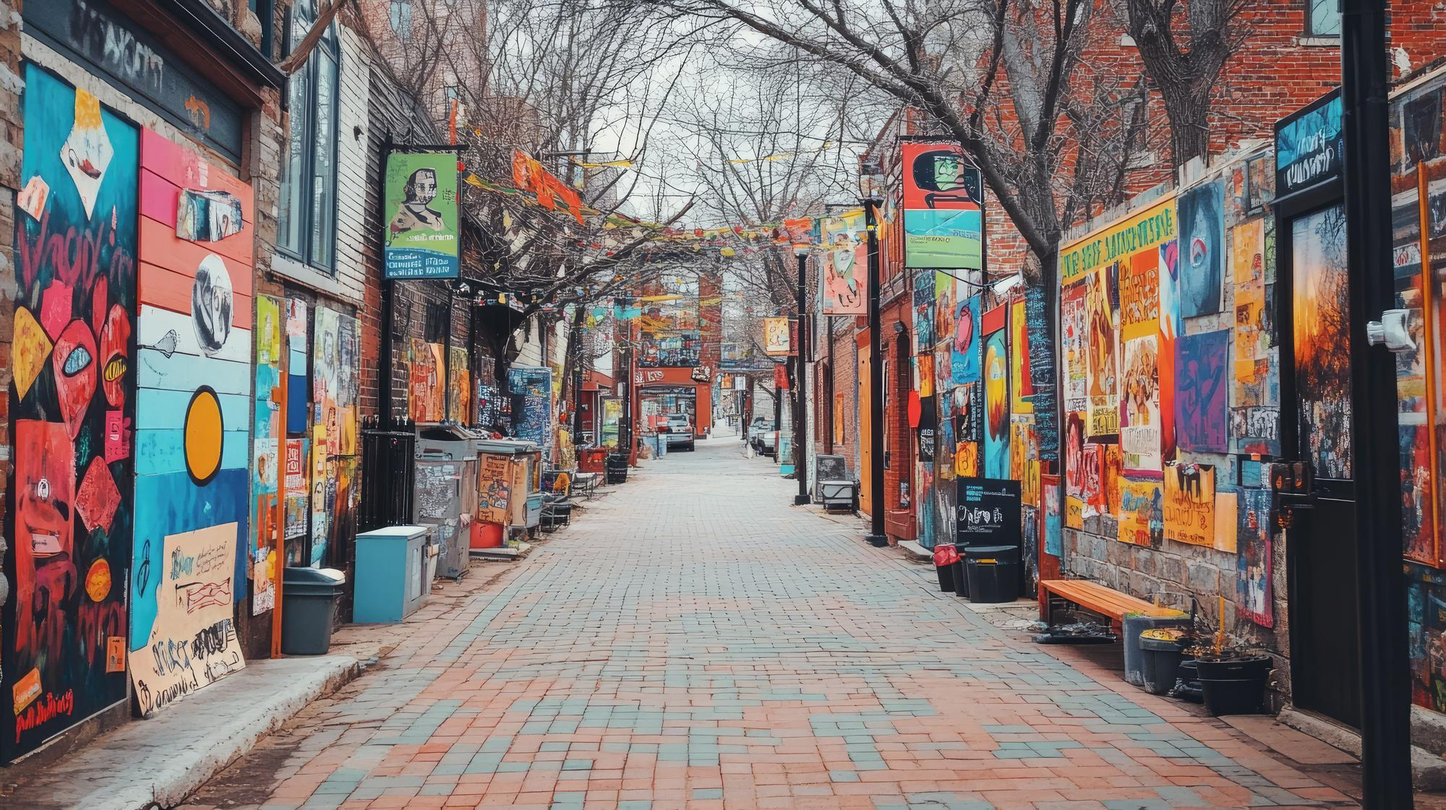
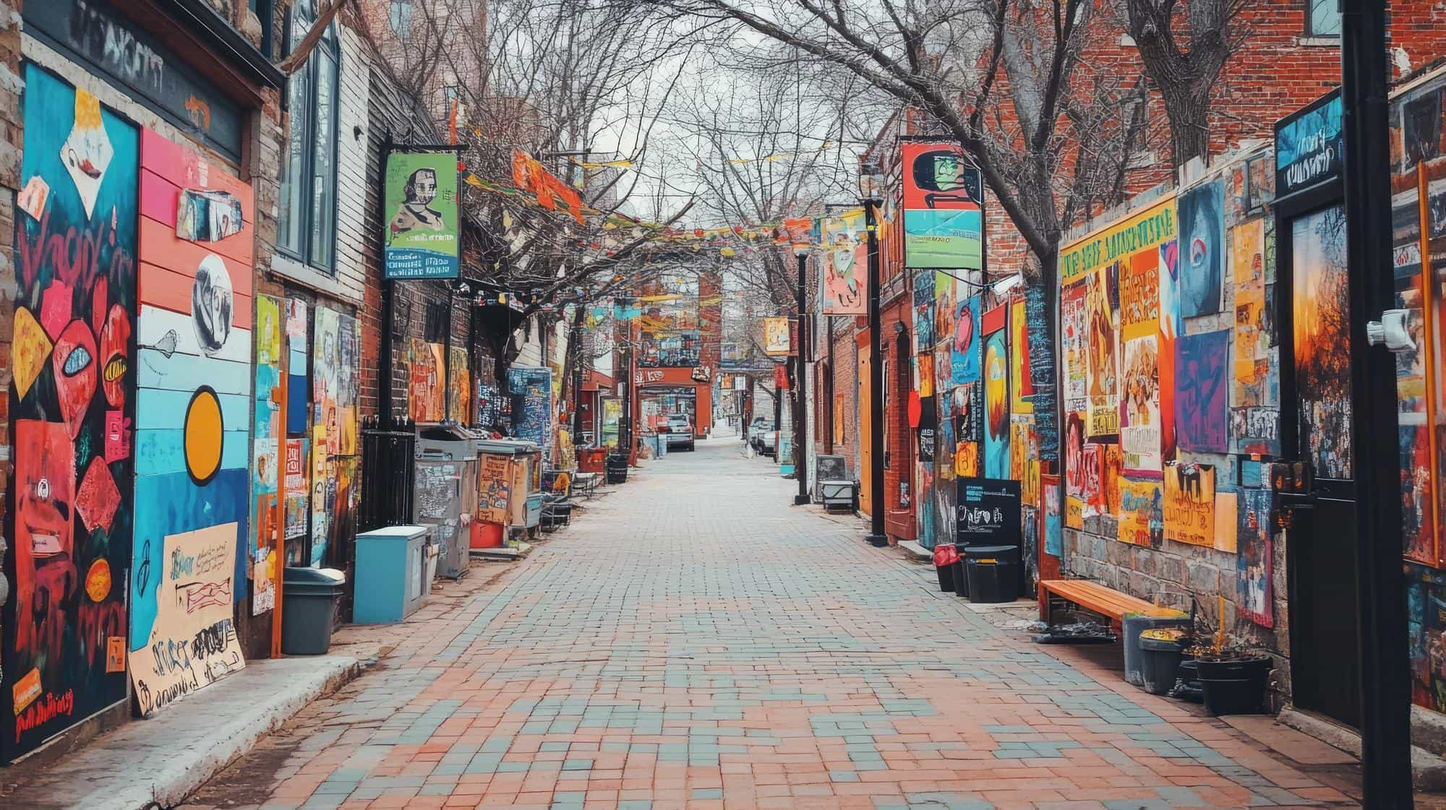
about page changes done

diff --git a/src/app/about/Hero.jsx b/src/app/about/Hero.jsx
@@ -9,12 +9,12 @@ const Hero = forwardRef(({HeroH2Ref, overlayRef}, ref) => {
       {/* Text Content */}
       <div className="relative z-10 lg:w-2/3 pointer-events-none text-center">
         <CharReveal>
-          <h1 ref={ref} className="text-neutral-100 text-4xl lg:text-6xl font-montserrat-semibold uppercase leading-[1.1] ">
+          <h1 ref={ref} className="text-neutral-100 text-4xl lg:text-6xl font-montserrat-semibold leading-[1.1] ">
             Our <span className="font-playfair-semibold-italic text-lime-theme lowercase">team</span> is a{" "}
             {/* <MarqueeIcon variant={1} className="mx-5" width={2.5} /> */}
           </h1>
-          <h1 ref={HeroH2Ref} className="text-neutral-100 text-4xl lg:text-6xl font-montserrat-semibold uppercase leading-[1.1]">
-            creative <span className="font-playfair-semibold-italic text-lime-theme lowercase">mixtape</span>{" "}
+          <h1 ref={HeroH2Ref} className="text-neutral-100 text-4xl lg:text-6xl font-montserrat-semibold leading-[1.1]">
+            Creative <span className="font-playfair-semibold-italic text-lime-theme lowercase">mixtape</span>{" "}
             {/* <MarqueeIcon variant={4} className="mx-5" width={2.5} /> */}
           </h1>
         </CharReveal>

diff --git a/src/app/about/AboutIntro.jsx b/src/app/about/AboutIntro.jsx
@@ -17,13 +17,13 @@ const AboutIntro = forwardRef(({ exLyFi, whyContainerRef }, ref) => {
           {/* Mask 1 */}
           <div className="overflow-hidden py-1">
             <span className="intro-line block">
-              We are a team of storytellers, strategists, filmmakers,
+              We are a team of <span className="font-playfair-italic lowercase tracking-wider text-lime-theme">storytellers, strategists, filmmakers,</span>
             </span>
           </div>
 
           {/* Mask 2 */}
           <div className="overflow-hidden py-1">
-            <span className="intro-line block">
+            <span className="intro-line block font-playfair-italic lowercase tracking-wider text-lime-theme">
                planners, dreamers
             </span>
           </div>

diff --git a/src/app/about/SliderSection.jsx b/src/app/about/SliderSection.jsx
@@ -107,7 +107,7 @@ const SliderSection = forwardRef(({ exLyTh }, ref) => {
         <div ref={imagesRef} className="absolute inset-0 overflow-hidden" />
 
         {/* Dark gradient overlay — heavier on left for text legibility */}
-        <div className="absolute inset-0 bg-gradient-to-r from-black/80 via-black/50 to-black/30 z-10 backdrop-blur-[2px]" />
+        <div className="absolute inset-0 bg-gradient-to-r from-black/80 via-black/50 to-black/30 z-10 backdrop-blur-[0.5px]" />
         {/* Main content grid */}
         <div className="relative z-20 w-full h-dvh flex flex-col md:flex-row items-end md:items-center px-6 md:px-10 pb-10 md:pb-0 pt-20 md:pt-0">
 

diff --git a/src/components/Navbar.jsx b/src/components/Navbar.jsx
@@ -205,7 +205,7 @@ export default function Navbar() {
               <motion.div key={index} variants={itemVariants} className={`border-b border-neutral-100/70 ${index === 0 ? "border-t" : ""} w-full`}>
                 <Link004
                   href={link.href}
-                  className={`text-neutral-100 text-3xl font-montserrat-semibold uppercase tracking-normal ${pathName === link.href ? "text-lime-theme" : ""}`}
+                  className={`text-neutral-100 text-3xl font-playfair-italic tracking-normal ${pathName === link.href ? "text-lime-theme" : ""}`}
                 >
                   <div className="py-2">
                     <ManualTextRoll>
